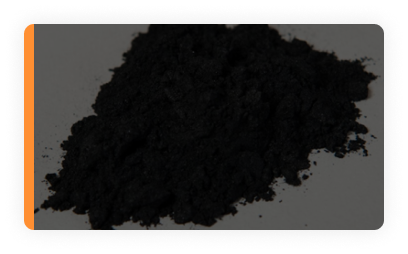
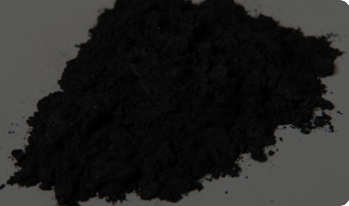
dsfsdfsd

diff --git a/css/style.css b/css/style.css
@@ -316,6 +316,8 @@ input[type="search"]::-webkit-search-results-decoration {
     min-height:235px;
     text-align: center;
     transition:  transform 124ms linear;
+    border-radius: 10px;
+    border-left: 10px solid #FF8F32;
 }    
 .list_link-3 .link-3:hover{
     transform: scale(1.05);
@@ -324,16 +326,16 @@ input[type="search"]::-webkit-search-results-decoration {
     width: 304px;
 }
 .list_link-3 .img-1{
-    background: url("/image/products/image-1.png") no-repeat center ;
+    background: url("/image/products/image-1.png") no-repeat 0 0 ;
 }
 .list_link-3 .img-2{
-    background: url("/image/products/image-2.png") no-repeat center ;
+    background: url("/image/products/image-2.png") no-repeat 0 0 ;
 }
 .list_link-3 .img-3{
-    background: url("/image/products/image-3.png") no-repeat center ;
+    background: url("/image/products/image-3.png") no-repeat 0 0 ;
 }
 .list_link-3 .img-4{
-    background: url("/image/products/image-4.png") no-repeat center ;
+    background: url("/image/products/image-4.png") no-repeat 0 0 ;
    
 }
 table{
@@ -552,6 +554,7 @@ nav .d-flex input:focus{
 }
 .section-1 .container{
     display: flex;
+    align-items: center;
     justify-content: space-between;
     padding-top: 112px;
     padding-bottom: 114px;
@@ -674,6 +677,8 @@ nav .d-flex input:focus{
     min-height:206px;
     text-align: center;
     transition:  transform 124ms linear;
+    border-radius: 10px;
+    border-left: 10px solid #FF8F32;
 }    
 .section-2 .list_link-1 .link-1:hover{
     transform: scale(1.05);
@@ -685,32 +690,32 @@ nav .d-flex input:focus{
     width:300px;
 }
 .section-2 .list_link-1 .img-1{
-    background: url("/image/product1.png") no-repeat center ;
+    background: url("/image/product1.png") no-repeat 0 0 ;
 }
 .section-2 .list_link-1 .img-2{
-    background: url("/image/product2.png") no-repeat center ;
+    background: url("/image/product2.png") no-repeat 0 0 ;
 }
 .section-2 .list_link-1 .img-3{
-    background: url("/image/product3.png") no-repeat center ;
+    background: url("/image/product3.png") no-repeat 0 0 ;
 }
 .section-2 .list_link-1 .img-4{
-    background: url("/image/product4.png") no-repeat center ;
+    background: url("/image/product4.png") no-repeat 0 0 ;
    
 }
 .section-2 .list_link-1 .img-5{
-    background: url("/image/product5.png") no-repeat center ;
+    background: url("/image/product5.png") no-repeat 0 0 ;
 }
 .section-2 .list_link-1 .img-6{
-    background: url("/image/product6.png") no-repeat center ;
+    background: url("/image/product6.png") no-repeat 0 0 ;
 }
 .section-2 .list_link-1 .img-7{
-    background: url("/image/product7.png") no-repeat center ;
+    background: url("/image/product7.png") no-repeat 0 0 ;
 }
 .section-2 .list_link-1 .img-8{
-    background: url("/image/product8.png") no-repeat center ;
+    background: url("/image/product8.png") no-repeat 0 0 ;
 }
 .section-2 .list_link-1 .img-9{
-    background: url("/image/product9.png") no-repeat center ;
+    background: url("/image/product9.png") no-repeat 0 0 ;
 }
 /*///////////////ABOUT_COMPANY_SECTION-2/////////////////////////////*/
 .about_company_section-2 .container{
@@ -1216,6 +1221,7 @@ footer .text a:hover{
     background: #FBFBF9;
     padding-top: 10px;
     padding-bottom: 10px;
+    font-size: 12px;
     line-height: 15px;
     color: #5F5F5F;
     text-align: center;
@@ -1242,7 +1248,7 @@ footer .text a:hover{
     header .info>div>img {
         width: 30px;
     }
-    .info .text {
+    header .info .text {
         line-height: 17px;
     }
     header .info .green_circle {
@@ -1366,8 +1372,11 @@ footer .text a:hover{
     .title-1 .text_size-36{
         font-size: 24px;
     }
-    .title-1 .text_size-20{
+    .section-2 .text_size-20{
         font-size: 16px;
+    }
+    .section-2 .list_link-1 {
+        margin-top: 15px;
     }
     .section-2 .list_link-1 a {
         line-height: 20px;
@@ -1375,6 +1384,179 @@ footer .text a:hover{
     .section-2 .list_link-1 .link-1 {
         width: 270px;
         min-height: 156px;
+        margin-top: 15px;
+    }
+    .section-2 .list_link-1 .img-1 {
+        background: url(/image/1000/product1.png) no-repeat 0 0;
+    }
+    .section-2 .list_link-1 .img-2 {
+        background: url(/image/1000/product2.png) no-repeat 0 0;
+    }
+    .section-2 .list_link-1 .img-3 {
+        background: url(/image/1000/product3.png) no-repeat 0 0;
+    }
+    .section-2 .list_link-1 .img-4 {
+        background: url(/image/1000/product4.png) no-repeat 0 0;
+    }
+    .section-2 .list_link-1 .img-5 {
+        background: url(/image/1000/product5.png) no-repeat 0 0;
+    }
+    .section-2 .list_link-1 .img-6 {
+        background: url(/image/1000/product6.png) no-repeat 0 0;
+    }
+    .section-2 .list_link-1 .img-7 {
+        background: url(/image/1000/product7.png) no-repeat 0 0;
+    }
+    .section-2 .list_link-1 .img-8 {
+        background: url(/image/1000/product8.png) no-repeat 0 0;
+    }
+    .section-2 .list_link-1 .img-9 {
+        background: url(/image/1000/product9.png) no-repeat 0 0;
+    }
+    .section-3 .container {
+        padding-top: 50px;
+        padding-bottom: 50px;
+    }
+    .section-3 .col {
+        margin-top: 33px;
+    }
+    .section-3 .col img {
+        width: 56px;
+        height: 56px;
+        border-radius: 45px;
+    }
+    .section-3 .text {
+        line-height: 20px;
+    }
+    .section-3 .text_size-20{
+        font-size:16px;
+    }
+    .section-3 .col>div {
+        padding-top: 0px;
+        padding-left: 10px;
+    }
+    .section-4 .container {
+        padding-top: 50px;
+        padding-bottom: 50px;
+    }
+    .section-4 .swiper-slide .col {
+        max-width: 193px;
+        max-height: 130px;
+        margin-right: 40px;
+    }
+    .section-4 .swiper-pagination-bullet {
+        width: 9.63px;
+        height: 9.63px;
+        margin-left: 8.5px;
+    }
+    .swiper-horizontal>.swiper-pagination-bullets, .swiper-pagination-bullets.swiper-pagination-horizontal, .swiper-pagination-custom, .swiper-pagination-fraction {
+        bottom: 0;
+    }
+    .section-4 .swiper-pagination {
+        margin-top: 20px;
+    }
+    .swiper-horizontal>.swiper-pagination-bullets .swiper-pagination-bullet, .swiper-pagination-horizontal.swiper-pagination-bullets .swiper-pagination-bullet {
+        margin: 0;
+    }
+    .section-5 {
+        padding-top: 35px;
+        padding-bottom: 35px;
+    }
+    .section-5 .contacts_form {
+        width: 387px;
+        padding-top: 5px;
+        padding-bottom: 5px;
+    }
+    .section-5 .contacts_form>div {
+        width: 378px;
+    }
+    .section-5 .info {
+        margin-top: 15px;
+    }
+    .section-5 .info>div {
+        margin-top: 10px;
+    }
+    .section-5 .info .text {
+        margin-left: 10px;
+    }
+    .section-5 .info .text {
+        line-height: 17px;
+    }
+    .section-5 .info .text .text_size-16{
+        font-size: 14px;
+    }
+    .section-5 .container>.contacts_form>div:nth-of-type(1)>div:nth-of-type(3) {
+        margin-top: 20px;
+        margin-bottom: 0px;
+    }
+    .section-5 .contacts_form .text_size-18{
+        font-size: 14px;
+    }
+    .section-5 .contacts_form>div>.text:nth-of-type(3){
+        line-height: 17px;
+    }
+    .section-5 .container>.contacts_form>div:nth-of-type(1)>div:nth-of-type(4) {
+        width: 320px;
+    }
+    .section-5 .city a {
+        line-height: 17px;
+    }
+    .section-5 .contacts_form>div>div:nth-of-type(4)>.text_size-16{
+        font-size: 14px;
+    }
+    .section-5 .city>div {
+        margin-top: 10px;
+    }
+    footer .text {
+        line-height: 17px;
+    }
+    footer .menu div {
+        padding-left: 20px;
+        padding-top: 30px;
+        padding-bottom: 30px;
+    }
+    footer .menu .text_size-16 {
+        font-size: 14px;
+    }
+    .copyright {
+        font-size: 10px;
+        line-height: 12px;
+    }
+    /*//////////////////////////////////////////////*/
+    .about_company_section-1 .container {
+        padding-top: 40px;
+        padding-bottom: 40px;
+    }
+    .container .title-2 .text {
+        line-height: 29px;
+    }
+    .container .title-2 .text_size-36 {
+        font-size: 24px;
+    }
+    .title-2 .text {
+        max-width: 371px;
+    }
+    .container .title-2 .line {
+        padding-top: 6px;
+        margin-left: 5px;
+        margin-right: 5px;
+    }
+    .about_company_section-2 .container {
+        padding-top: 30px;
+        padding-bottom: 50px;
+    }
+    .about_company_section-3 .container {
+        padding-top: 50px;
+    }
+    .about_company_section-3 {
+        max-height: 566px;
+    }
+    .list_link-2 {
+        margin-top: 10px;
+    }
+    .list_link-2 .link-2 {
+        margin-top: 15px;
+        width: 193px;
     }
 }
 @media (max-width:991px){

diff --git a/index.php b/index.php
@@ -129,7 +129,7 @@
     </section>
     <section class="section-5">
         <div class="container">  
-            <div class="contacts_form text">
+            <div class="contacts_form">
                 <div>
                     <div class="title-1">
                         <div class="text text_size-36">Контакты</div>
@@ -155,7 +155,7 @@
                             </div>
                         </div>
                     </div>
-                    <div class="text_size-18">
+                    <div class="text text_size-18">
                         Наши филиалы в <strong >других городах России</strong>
                     </div>
                     

diff --git a/about_company.php b/about_company.php
@@ -7,7 +7,7 @@
         <div class="container">
             <div class="title-2">
                 <div class="line"><img src="image/about_company/left_line.png"/></div>
-                <div class="text text_size-36"><strong>О компании</strong></div>
+                <div class="text text_size-36">О <strong>компании</strong></div>
                 <div class="line"><img src="image/about_company/right_line.png"/></div>
             </div>
         </div>

diff --git a/parts/header.php b/parts/header.php
@@ -23,7 +23,7 @@
                 <div class="header">
                     <a href="/">
                         <div>
-                            <img class="header_logo" src="image/graphitservis_logo 1.png"/>
+                            <img class="header_logo" src="image/logo_header.png"/>
                         </div>
                     </a>
                     <div class="info">

diff --git a/parts/footer.php b/parts/footer.php
@@ -2,7 +2,7 @@
             <div class="container navbar">
                 <a href="/">
                     <div>
-                        <img src="image/logo.png"/>
+                        <img src="image/logo_footer.png"/>
                     </div>
                 </a>
                 <div class="menu text">
